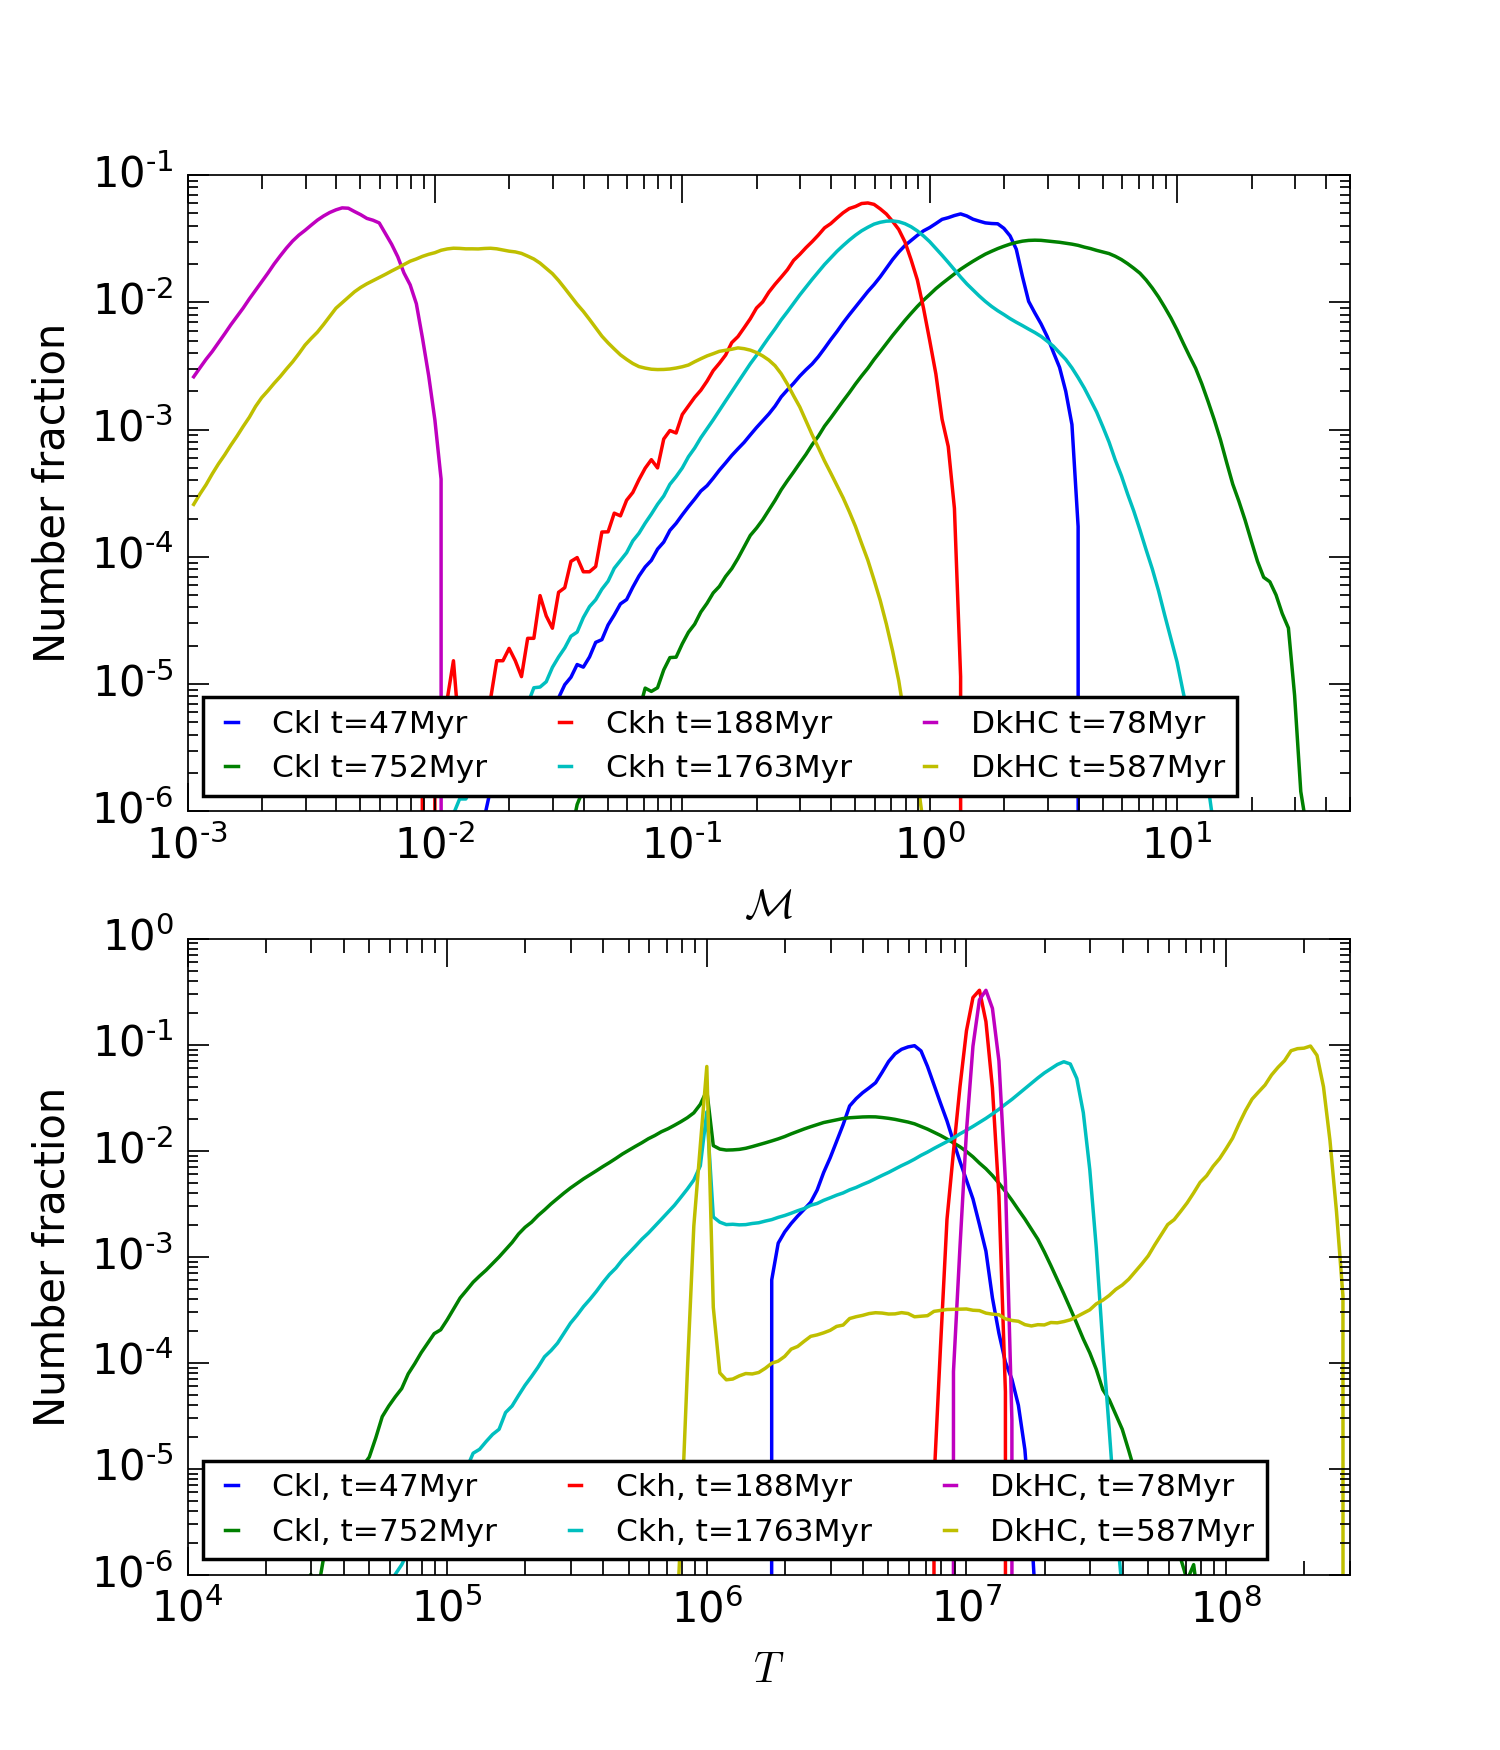
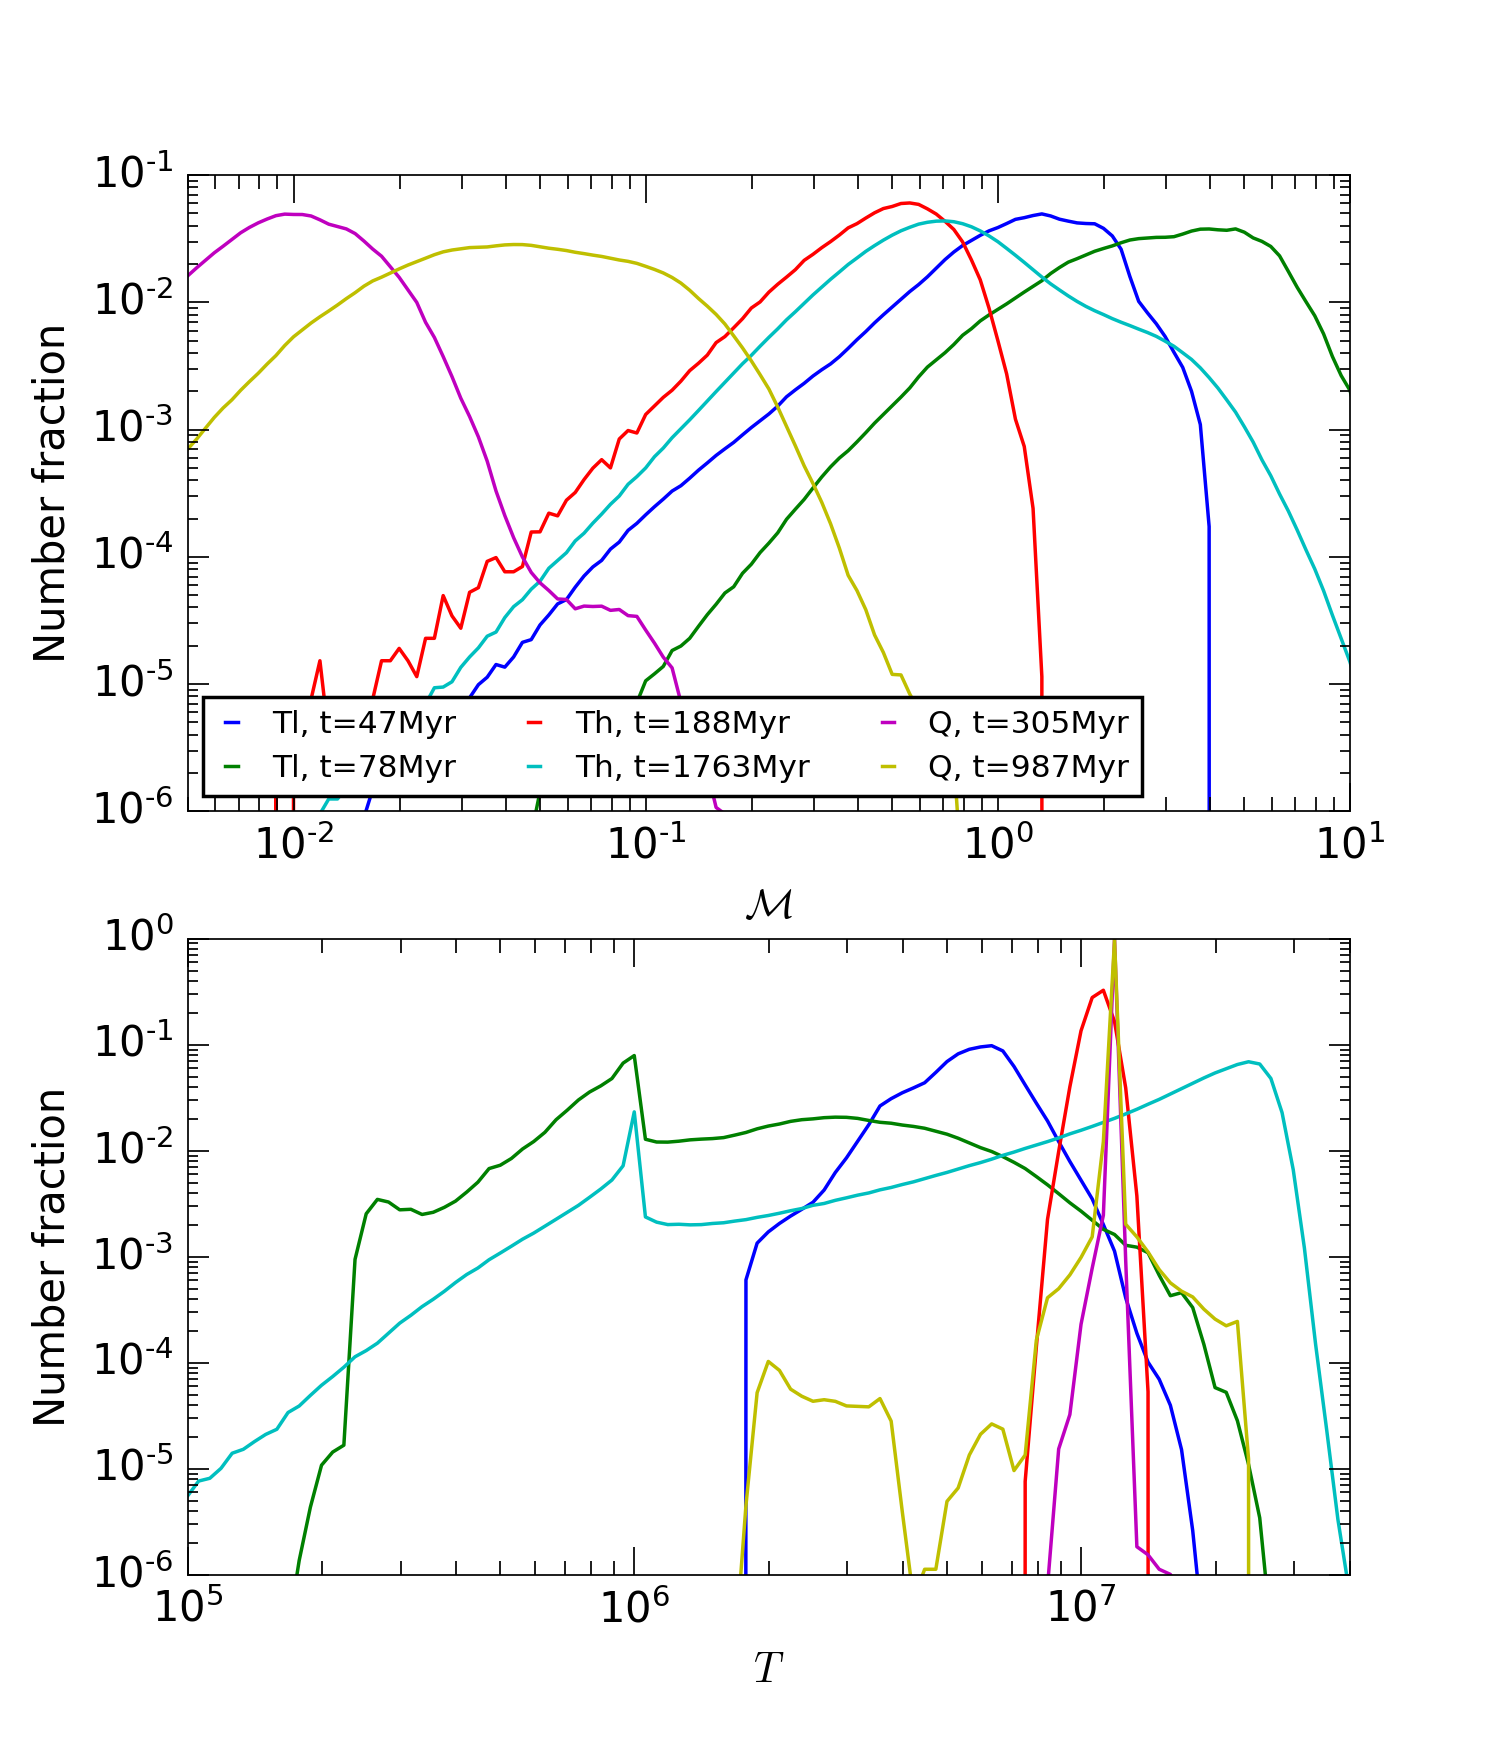
Added new temp and mach distribution plots

diff --git a/mach_temp_dist/mach-temp-dist.py b/mach_temp_dist/mach-temp-dist.py
@@ -28,12 +28,12 @@ nx,ny,nz=256,256,256
 #t_turb=(1.2, 4.8, 2, 4, 6, 10.2, 6, 6, 12, 12, 2, 10.2, 10.2)
 #step_size=(0.2, 0.2, 0.2, 0.2, 1.0, 0.2, 0.2, 0.2, 1.0, 0.2, 0.2, 0.2, 0.2)
 
-no_files=2
-wdir=('thermal_heating/256/tabulated_cooling/F5e-1/k0-2/', 'thermal_heating/256/tabulated_cooling/F5e-1/k12/')
-labels=('HCkl', 'HCkh')
-t_mp=(6., 30 )
-t_turb=(2., 4.8)
-step_size=(0.2, 0.2)
+no_files=3
+wdir=('tabulated_cooling/256/k0-2/', 'tabulated_cooling/256/k12/', 'no_turb/2e-3/')
+labels=('Tl', 'Th', 'Q')
+t_mp=(2., 45., 25.2)
+t_turb=(1.2, 4.8, 7.8)
+step_size=(0.2, 0.2, 0.2)
 
 #Initialise the figure
 fig, (ax1, ax2) = plt.subplots(2, 1)
@@ -41,14 +41,14 @@ for i1 in xrange(0,no_files):
 	filedir='/mnt/lustre/ug4/ugrajs/cooling/'+wdir[i1]
 	file=filedir+'mach'+str(int(t_turb[i1]/step_size[i1]+0.1)).rjust(4,'0')+'.txt'
 	data = np.loadtxt(file, skiprows=1, usecols=(0,1))
-	ax1.plot(data[:,0],data[:,1]/(float(nx*ny*nz)),label=labels[i1]+' t='+str(int(t_turb[i1]*UNIT_TIME))+'Myr')
+	ax1.plot(data[:,0],data[:,1]/(float(nx*ny*nz)),label=labels[i1]+', t='+str(int(t_turb[i1]*UNIT_TIME))+'Myr')
 	file=filedir+'mach'+str(int(t_mp[i1]/step_size[i1]+0.1)).rjust(4,'0')+'.txt'
 	data = np.loadtxt(file, skiprows=1, usecols=(0,1))
-	ax1.plot(data[:,0],data[:,1]/(float(nx*ny*nz)),label=labels[i1]+' t='+str(int(t_mp[i1]*UNIT_TIME))+'Myr')
+	ax1.plot(data[:,0],data[:,1]/(float(nx*ny*nz)),label=labels[i1]+', t='+str(int(t_mp[i1]*UNIT_TIME))+'Myr')
 fig.set_size_inches(6, 7)
 ax1.set_xscale('log')
 ax1.set_yscale('log')
-ax1.set_xlim(1e-2, 5e1)
+ax1.set_xlim(5e-3, 1e1)
 ax1.set_ylim(1e-6, )
 ax1.set_xlabel(r'$\mathcal{M}$')
 ax1.set_ylabel(r'Number fraction')
@@ -56,7 +56,7 @@ ax1.set_ylabel(r'Number fraction')
 box = ax1.get_position()
 ax1.set_position([box.x0, box.y0, box.width, box.height])
 # Put a legend to the bottom of the current axis
-ax1.legend(loc='lower left', bbox_to_anchor=(0.25, 0.0), ncol=2)
+ax1.legend(loc='lower left', ncol=3)
 #plt.savefig('mach-dist.png',dpi=250)
 
 for i1 in xrange(0,no_files):
@@ -69,15 +69,15 @@ for i1 in xrange(0,no_files):
 	ax2.plot(data[:,0],data[:,1]/(float(nx*ny*nz)),label=labels[i1]+', t='+str(int(t_mp[i1]*UNIT_TIME))+'Myr')
 ax2.set_xscale('log')
 ax2.set_yscale('log')
-ax2.set_xlim(1e5, 3e8)
+ax2.set_xlim(1e5, 4e7)
 ax2.set_ylim(1e-6, )
 ax2.set_xlabel(r'$T$')
 ax2.set_ylabel(r'Number fraction')
 box = ax2.get_position()
 ax2.set_position([box.x0, box.y0, box.width, box.height])
 # Put a legend to the bottom of the current axis
-ax2.legend(loc='lower left', bbox_to_anchor=(0.25, 0.0), ncol=2)
+#ax2.legend(loc='lower left', ncol=3)
 #plt.savefig('temp-dist.png',dpi=250)
-plt.savefig('mach-temp-dist-HC.png',dpi=250, mode="expand", borderaxespad=0.)
+plt.savefig('mach-temp-dist-extremes.png',dpi=250, mode="expand", borderaxespad=0.)
 plt.close()
 
